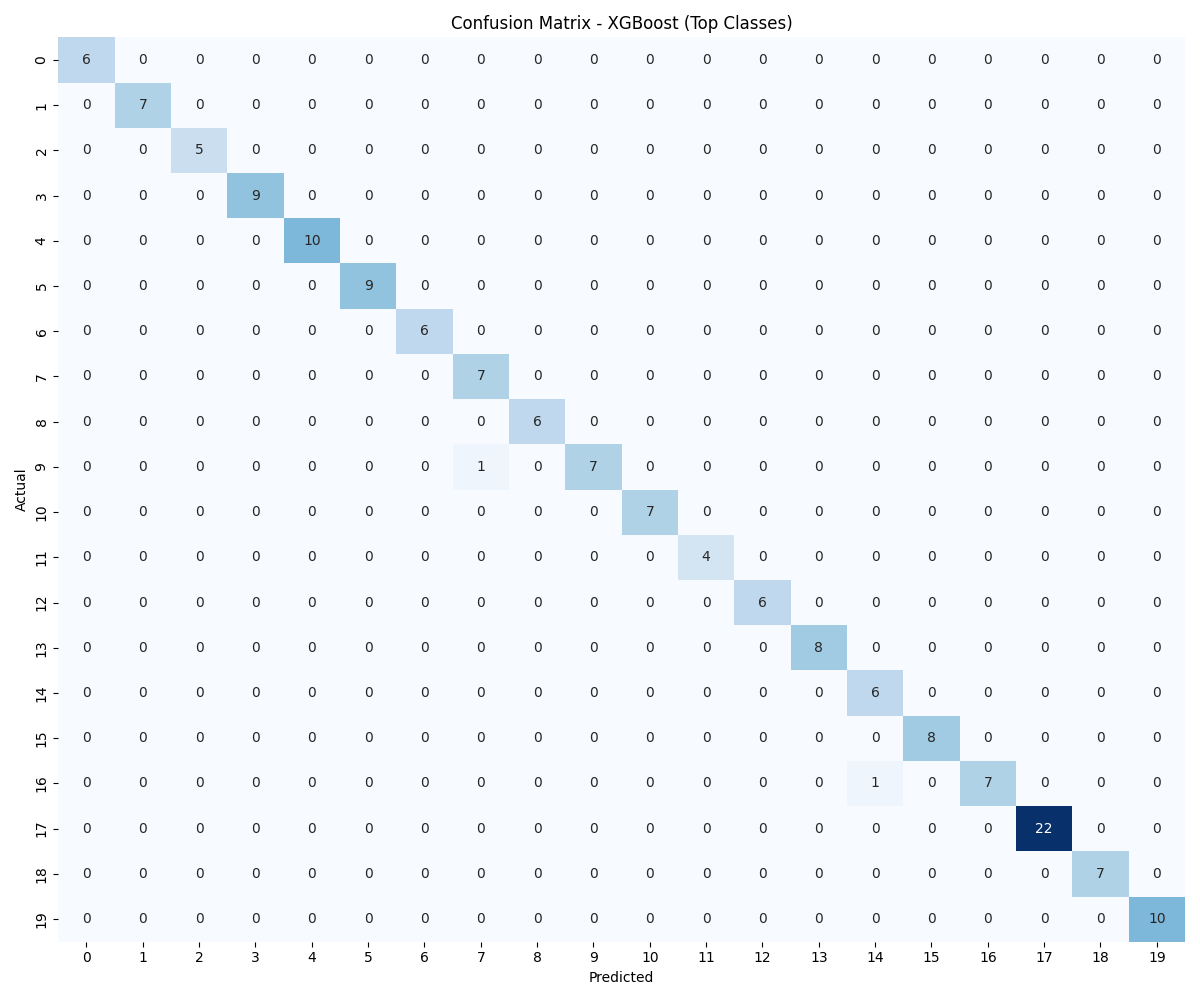
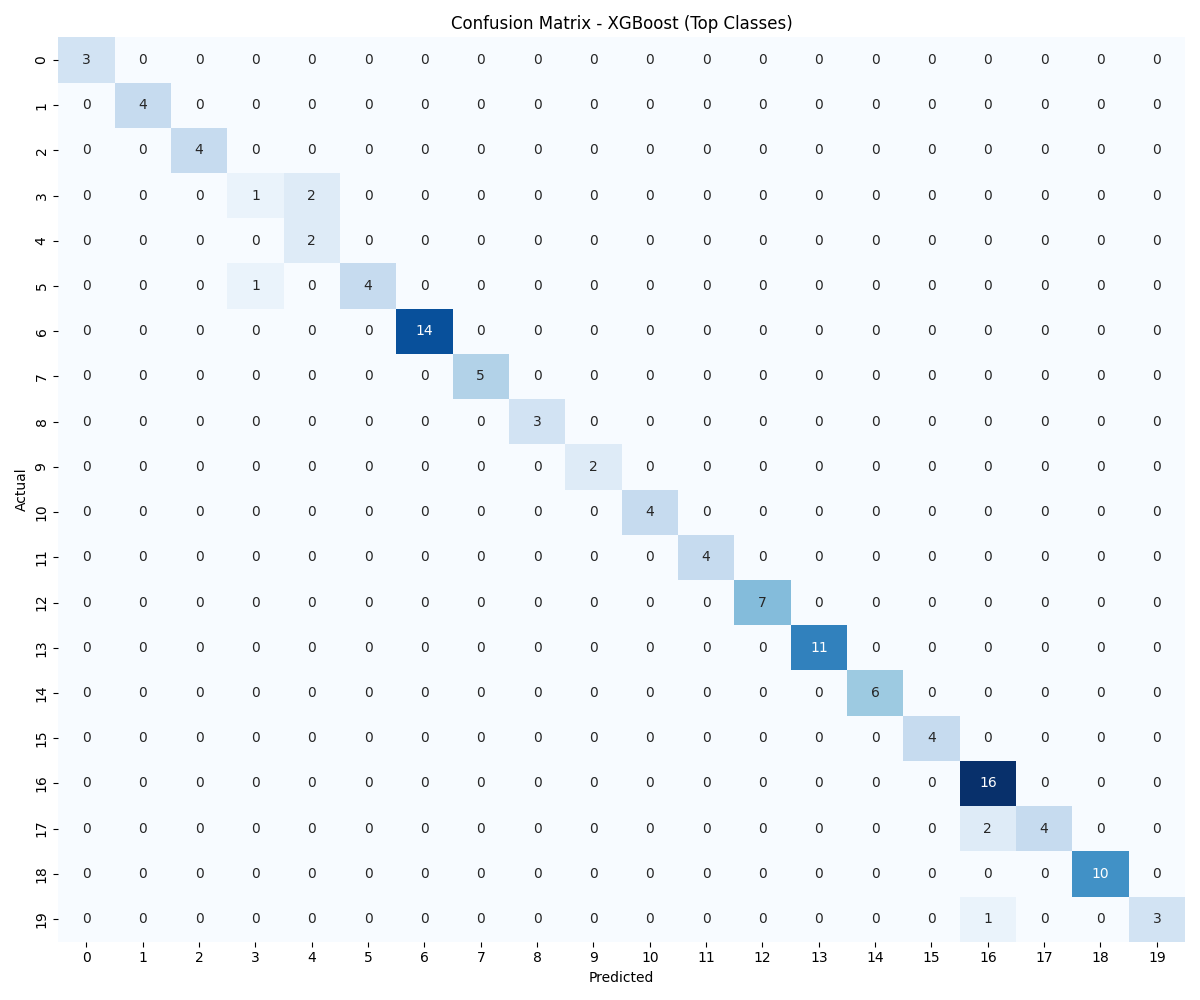
Weighted Voting Ensemble Model

Changed region(s): [[0.5858, 0.558, 0.9867, 0.961], [0.185, 0.155, 0.4008, 0.372], [0.4625, 0.434, 0.5242, 0.496]]

diff --git a/evaluate.py b/evaluate.py
@@ -47,7 +47,7 @@ def create_sequences(features, targets, time_steps=10):
     
     return np.array(X_seq), np.array(y_seq), np.array(target_indices)
 
-def recreate_grid_from_fixed_boundaries(df, grid_size_meters=15):
+def recreate_grid_from_fixed_boundaries(df, grid_size_meters=10):
     """
     Recreates the fixed grid over the entire ITU Ayazağa campus to assign 
     cell_id to the evaluation data.
@@ -121,7 +121,7 @@ def evaluate_models(data_path):
         return
 
     # Prepare Data
-    df_gridded = recreate_grid_from_fixed_boundaries(df, grid_size_meters=15)
+    df_gridded = recreate_grid_from_fixed_boundaries(df, grid_size_meters=10)
     print("✅ Fixed ITU grid system recreated for evaluation.")
     
     # Filter for known cells
@@ -205,6 +205,62 @@ def evaluate_models(data_path):
             'time': pred_time
         }
         print(f"Prediction time: {pred_time:.3f} seconds")
+
+    # Ensemble model (Weighted Voting)
+    from collections import defaultdict
+
+    available_models = [name for name in ['XGBoost', 'RandomForest', 'LSTM'] if name in predictions]
+
+    if len(available_models) >= 2:
+        print("\n--- Evaluating Ensemble (Weighted Voting) ---")
+
+        # Ortak örnek indekslerini belirle (kesinlik için)
+        common_indices = set(predictions[available_models[0]]['indices'])
+        for name in available_models[1:]:
+            common_indices &= set(predictions[name]['indices'])
+
+        if common_indices:
+            common_indices = sorted(list(common_indices))
+            ensemble_preds = []
+            ensemble_true = []
+
+            # Ağırlıklar manuel olarak belirlenmiştir (toplamı 1 olmalı)
+            model_weights = {
+                'XGBoost': 0.2,
+                'RandomForest': 0.3,
+                'LSTM': 0.5
+            }
+
+            # Her modelin index -> prediction haritası
+            model_preds_by_index = {
+                name: {idx: pred for idx, pred in zip(data['indices'], data['pred'])}
+                for name, data in predictions.items()
+            }
+
+            for idx in common_indices:
+                weighted_votes = defaultdict(float)
+                for model_name in available_models:
+                    pred = model_preds_by_index[model_name][idx]
+                    weighted_votes[pred] += model_weights.get(model_name, 1.0)
+                final_pred = max(weighted_votes, key=weighted_votes.get)
+                ensemble_preds.append(final_pred)
+                ensemble_true.append(model_preds_by_index[available_models[0]][idx])  # hepsi aynı
+
+            ensemble_preds = np.array(ensemble_preds)
+            ensemble_true = np.array(ensemble_true)
+
+            pred_time = sum([predictions[name]['time'] for name in available_models])
+
+            predictions['Ensemble'] = {
+                'pred': ensemble_preds,
+                'true': ensemble_true,
+                'indices': common_indices,
+                'time': pred_time
+            }
+
+            print(f"Prediction time (summed): {pred_time:.3f} seconds")
+        else:
+            print("❌ No overlapping indices among base models. Skipping Ensemble.")
 
     # Generate detailed reports and visualizations
     results_data = []

diff --git a/classification_model.py b/classification_model.py
@@ -36,7 +36,7 @@ def haversine_distance(lat1, lon1, lat2, lon2):
     r = 6371 
     return c * r * 1000
 
-def create_grid_and_assign_cells(df, grid_size_meters=15):
+def create_grid_and_assign_cells(df, grid_size_meters=10):
     """
     Creates a fixed grid over the entire ITU Ayazağa campus and assigns each 
     data point to a grid cell. The grid boundaries are based on the 
@@ -239,7 +239,7 @@ def train_and_save_all_models(featured_data_path):
     print(f"✅ Data loaded successfully from {full_path}")
     
     # Create grid and filter sparse cells
-    df_gridded, cell_centers = create_grid_and_assign_cells(df, grid_size_meters=15)
+    df_gridded, cell_centers = create_grid_and_assign_cells(df, grid_size_meters=10)
     cell_counts = df_gridded['cell_id'].value_counts()
     cells_to_keep = cell_counts[cell_counts >= 5].index  # Increased threshold for LSTM
     df_filtered = df_gridded[df_gridded['cell_id'].isin(cells_to_keep)].copy().reset_index(drop=True)
